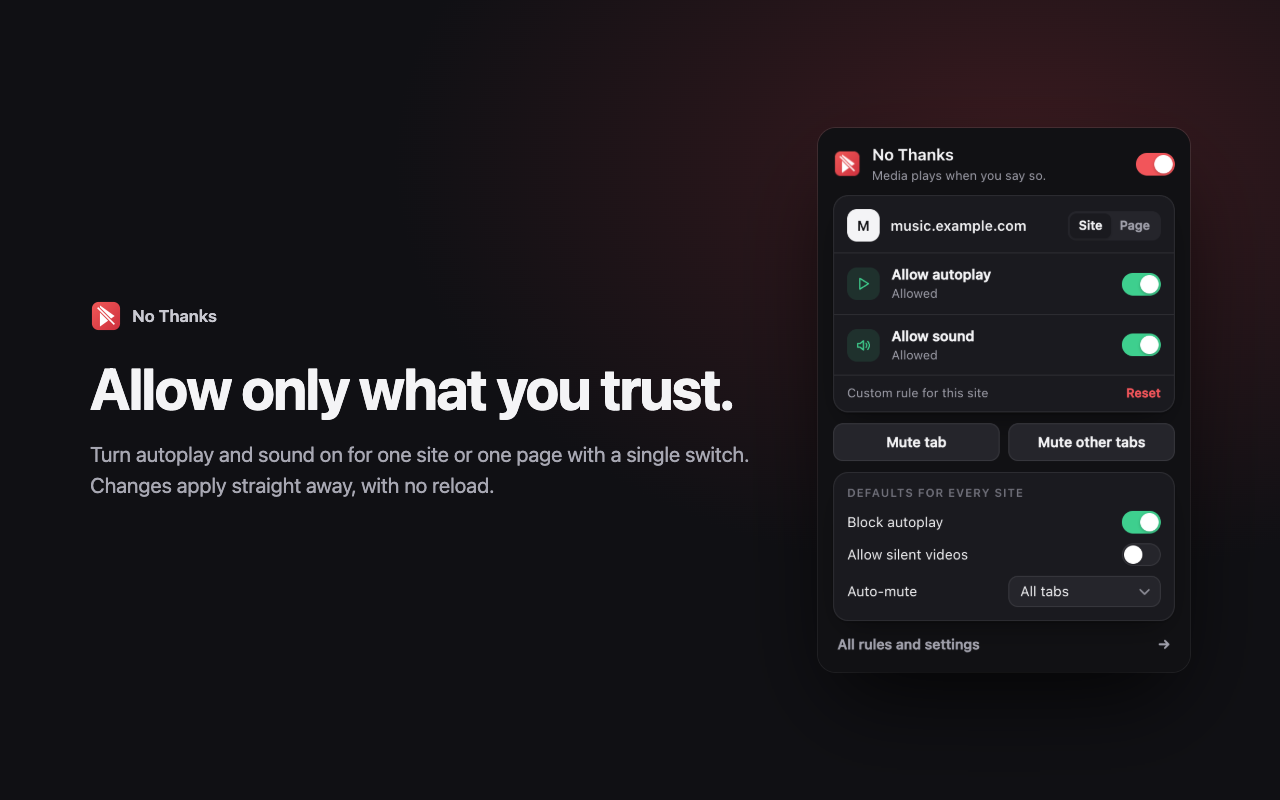
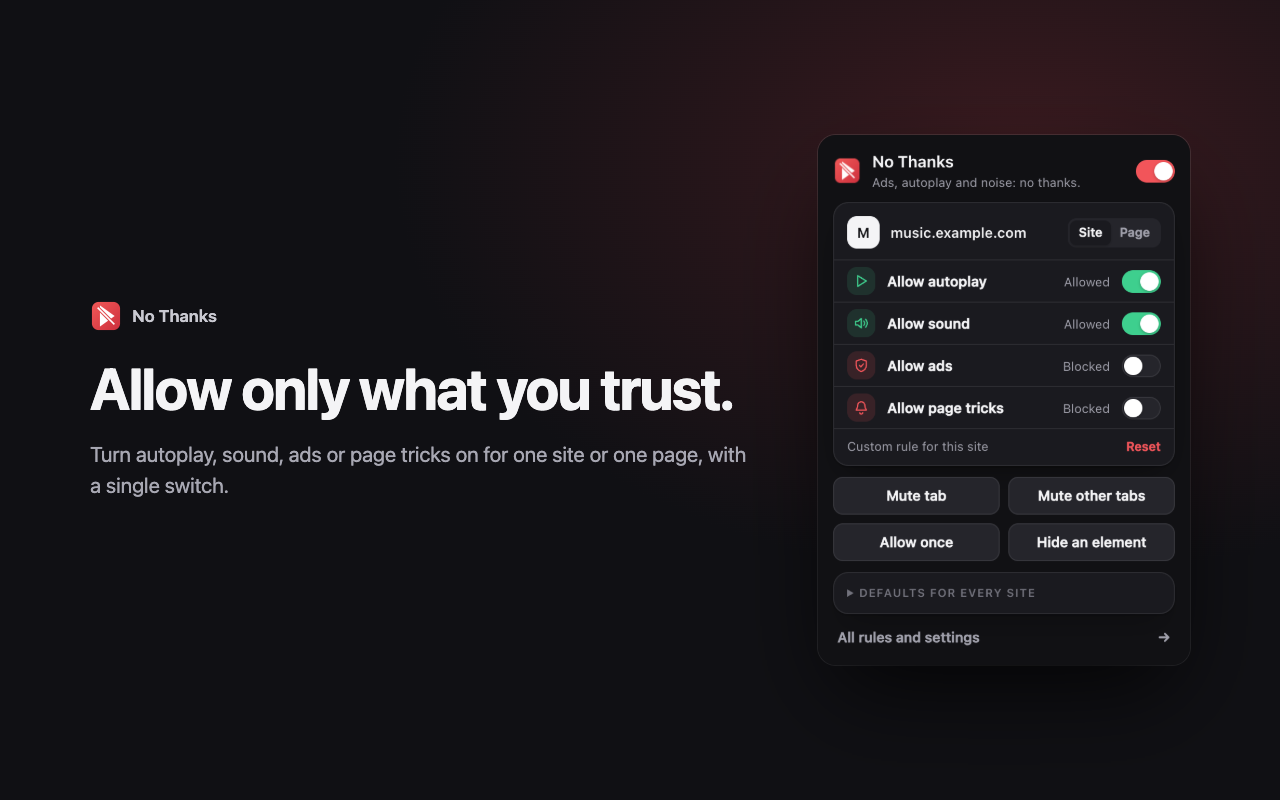
Update store images and fix ruleset paths for Edge
Edge Add-ons rejects declarative_net_request paths that start with "/",
so the manifest now uses paths relative to the extension root. Replace
the four autoplay-only screenshots with six that show ad blocking, page
tricks, clutter hiding and exceptions, and add a 1400x560 marquee tile.

Changed region(s): [[0.625, 0.1562, 0.9375, 0.75], [0.0625, 0.5625, 0.5938, 0.625], [0.6562, 0.7812, 0.7812, 0.8125]]

diff --git a/README.md b/README.md
@@ -2,7 +2,7 @@
 <h1 align="center">No Thanks</h1>
 <p align="center">Block ads, trackers, autoplay, sound and page tricks on any website, in Chrome and Edge.<br>Ads, autoplay and noise: no thanks.</p>
 
-![No Thanks stops autoplay and keeps sound off](docs/screenshots/1-autoplay-blocked.png)
+![No Thanks blocks ads, autoplay and sound](docs/screenshots/1-ads-autoplay-noise.png)
 
 ## Features
 
@@ -23,9 +23,11 @@
 
 By default, ads, trackers, malware sites, autoplay and silent videos are blocked, all tabs are muted, and all page tricks are stopped except for the optional right-click and text selection unlock. The clutter lists are off.
 
-![Allow autoplay and sound for the sites you trust](docs/screenshots/2-allow-what-you-trust.png)
-![Manage all your exceptions in the settings page](docs/screenshots/3-exceptions.png)
-![No Thanks in light and dark themes](docs/screenshots/4-light-and-dark.png)
+![Allow autoplay, sound, ads or page tricks for the sites you trust](docs/screenshots/2-allow-what-you-trust.png)
+![Page tricks that No Thanks stops](docs/screenshots/3-page-tricks.png)
+![Optional switches that hide clutter](docs/screenshots/4-hide-clutter.png)
+![Manage all your exceptions in the settings page](docs/screenshots/5-exceptions.png)
+![No Thanks in light and dark themes](docs/screenshots/6-light-and-dark.png)
 
 ## Install from source
 

diff --git a/docs/store-listing.md b/docs/store-listing.md
@@ -76,4 +76,4 @@ No login is needed. To test: open a news site. Ads are gone, the video stays pau
 
 ## Images
 
-In `docs/screenshots`: four 1280x800 screenshots and a 440x280 promo tile.
+In `docs/screenshots`: six 1280x800 screenshots, a 440x280 promo tile and a 1400x560 marquee tile.
